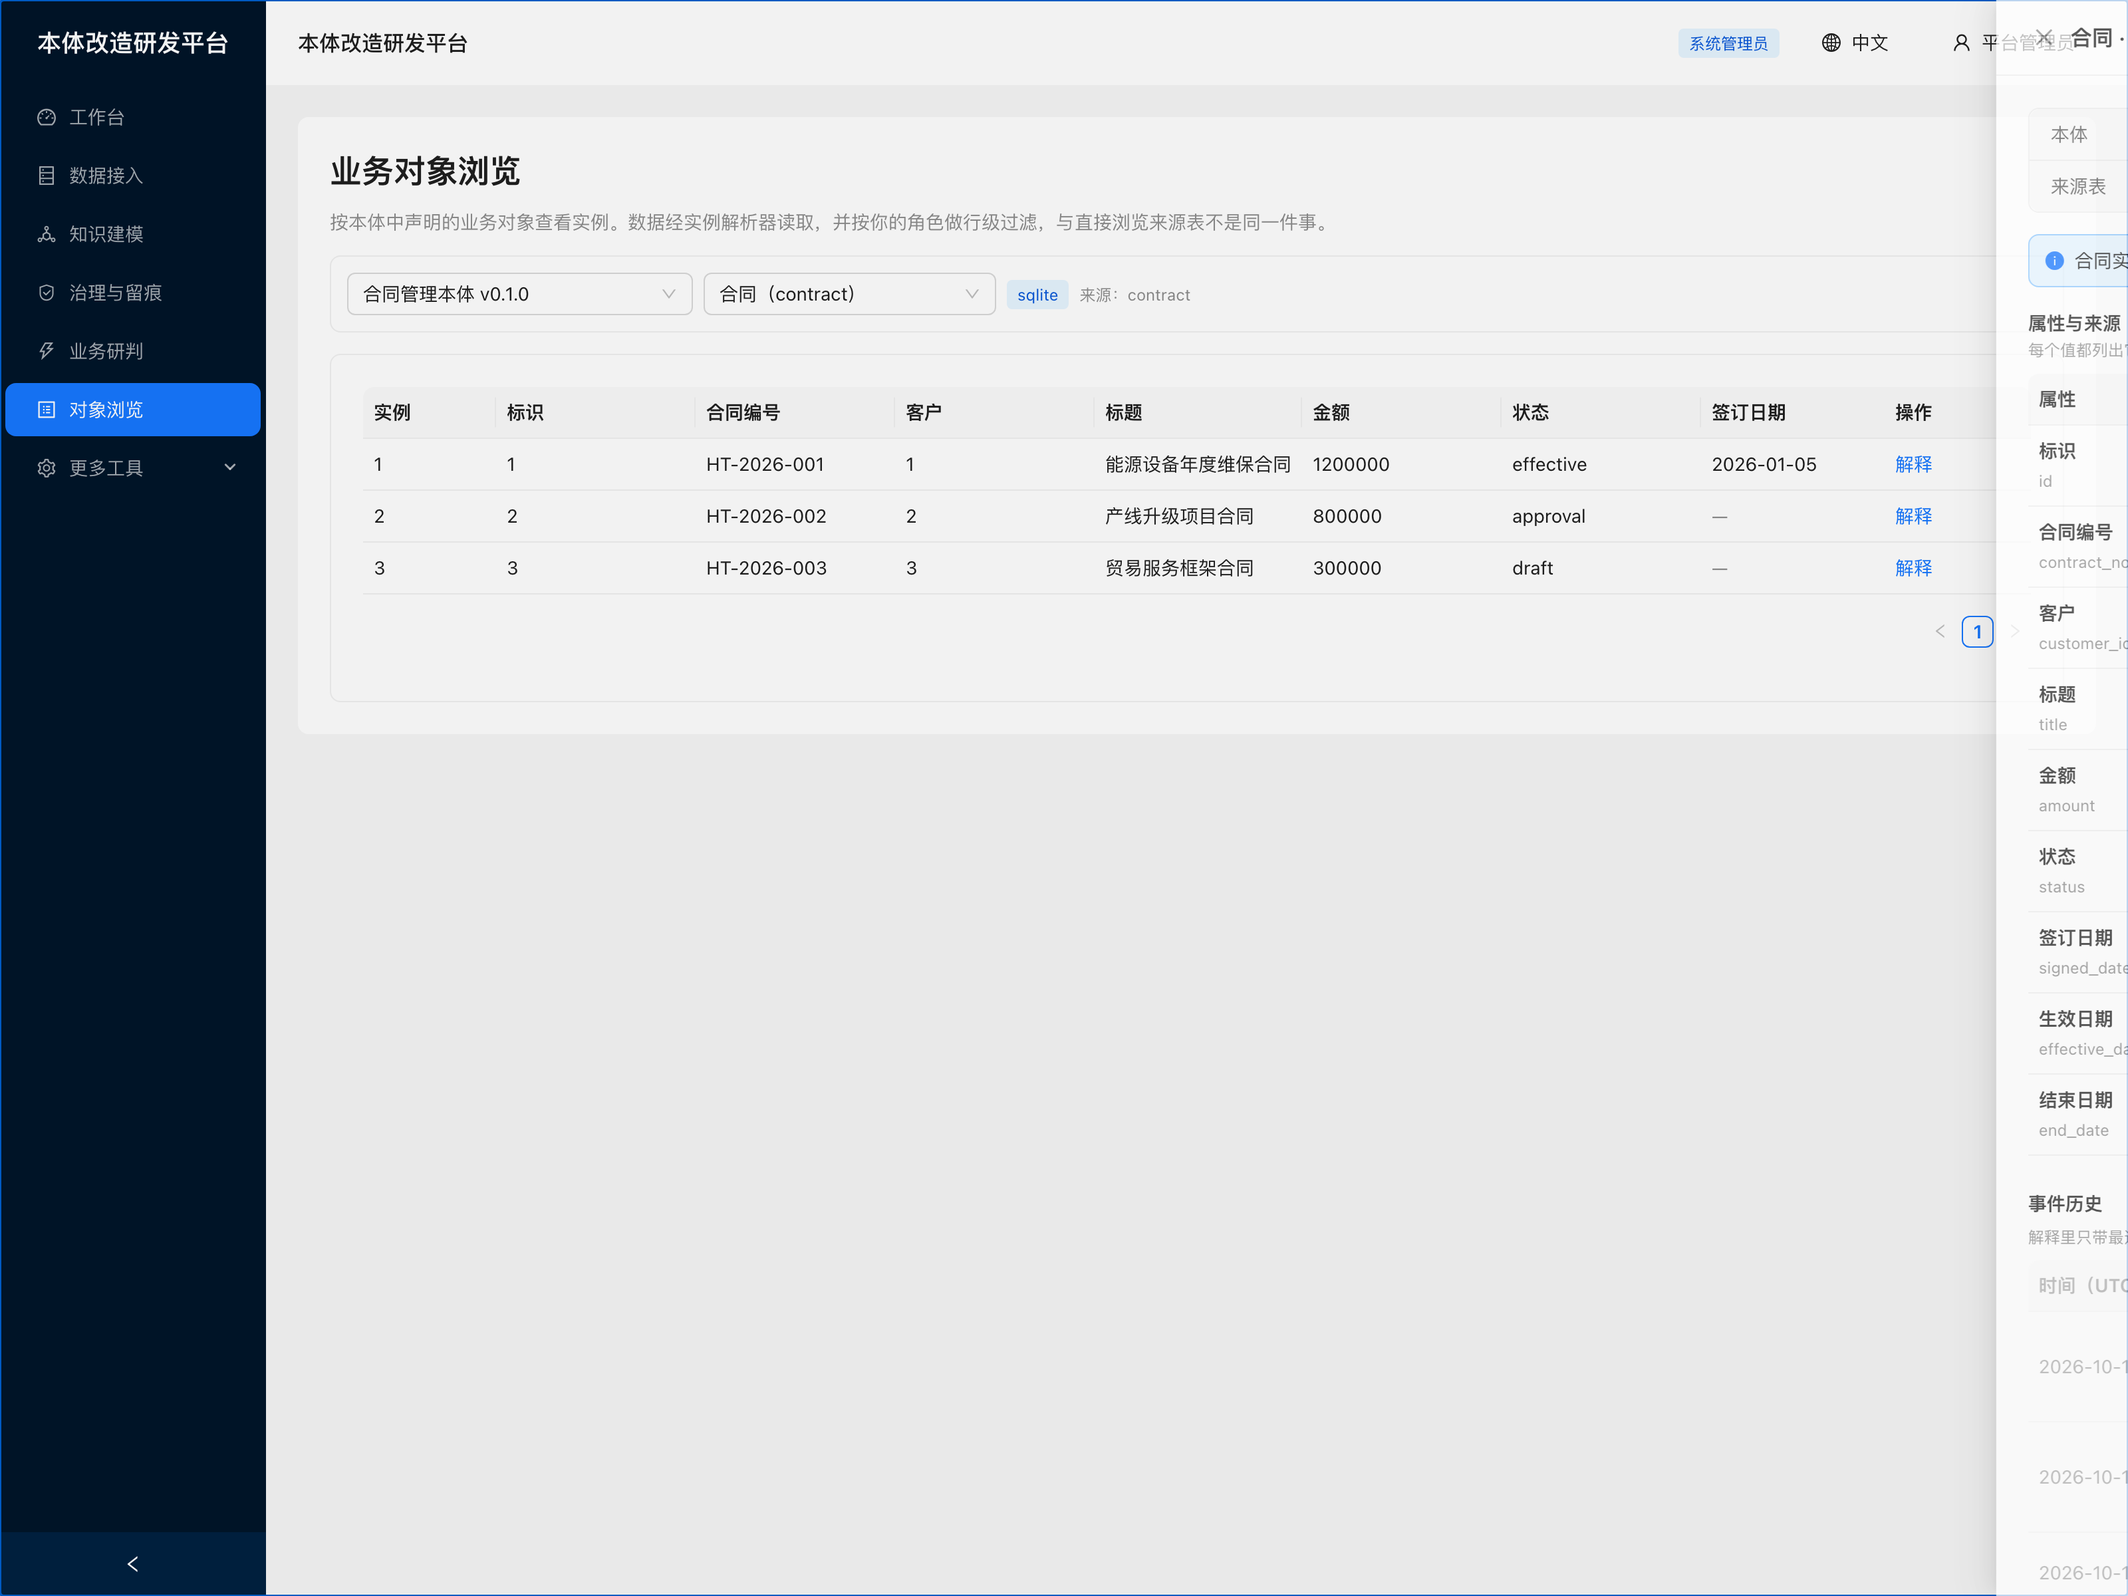
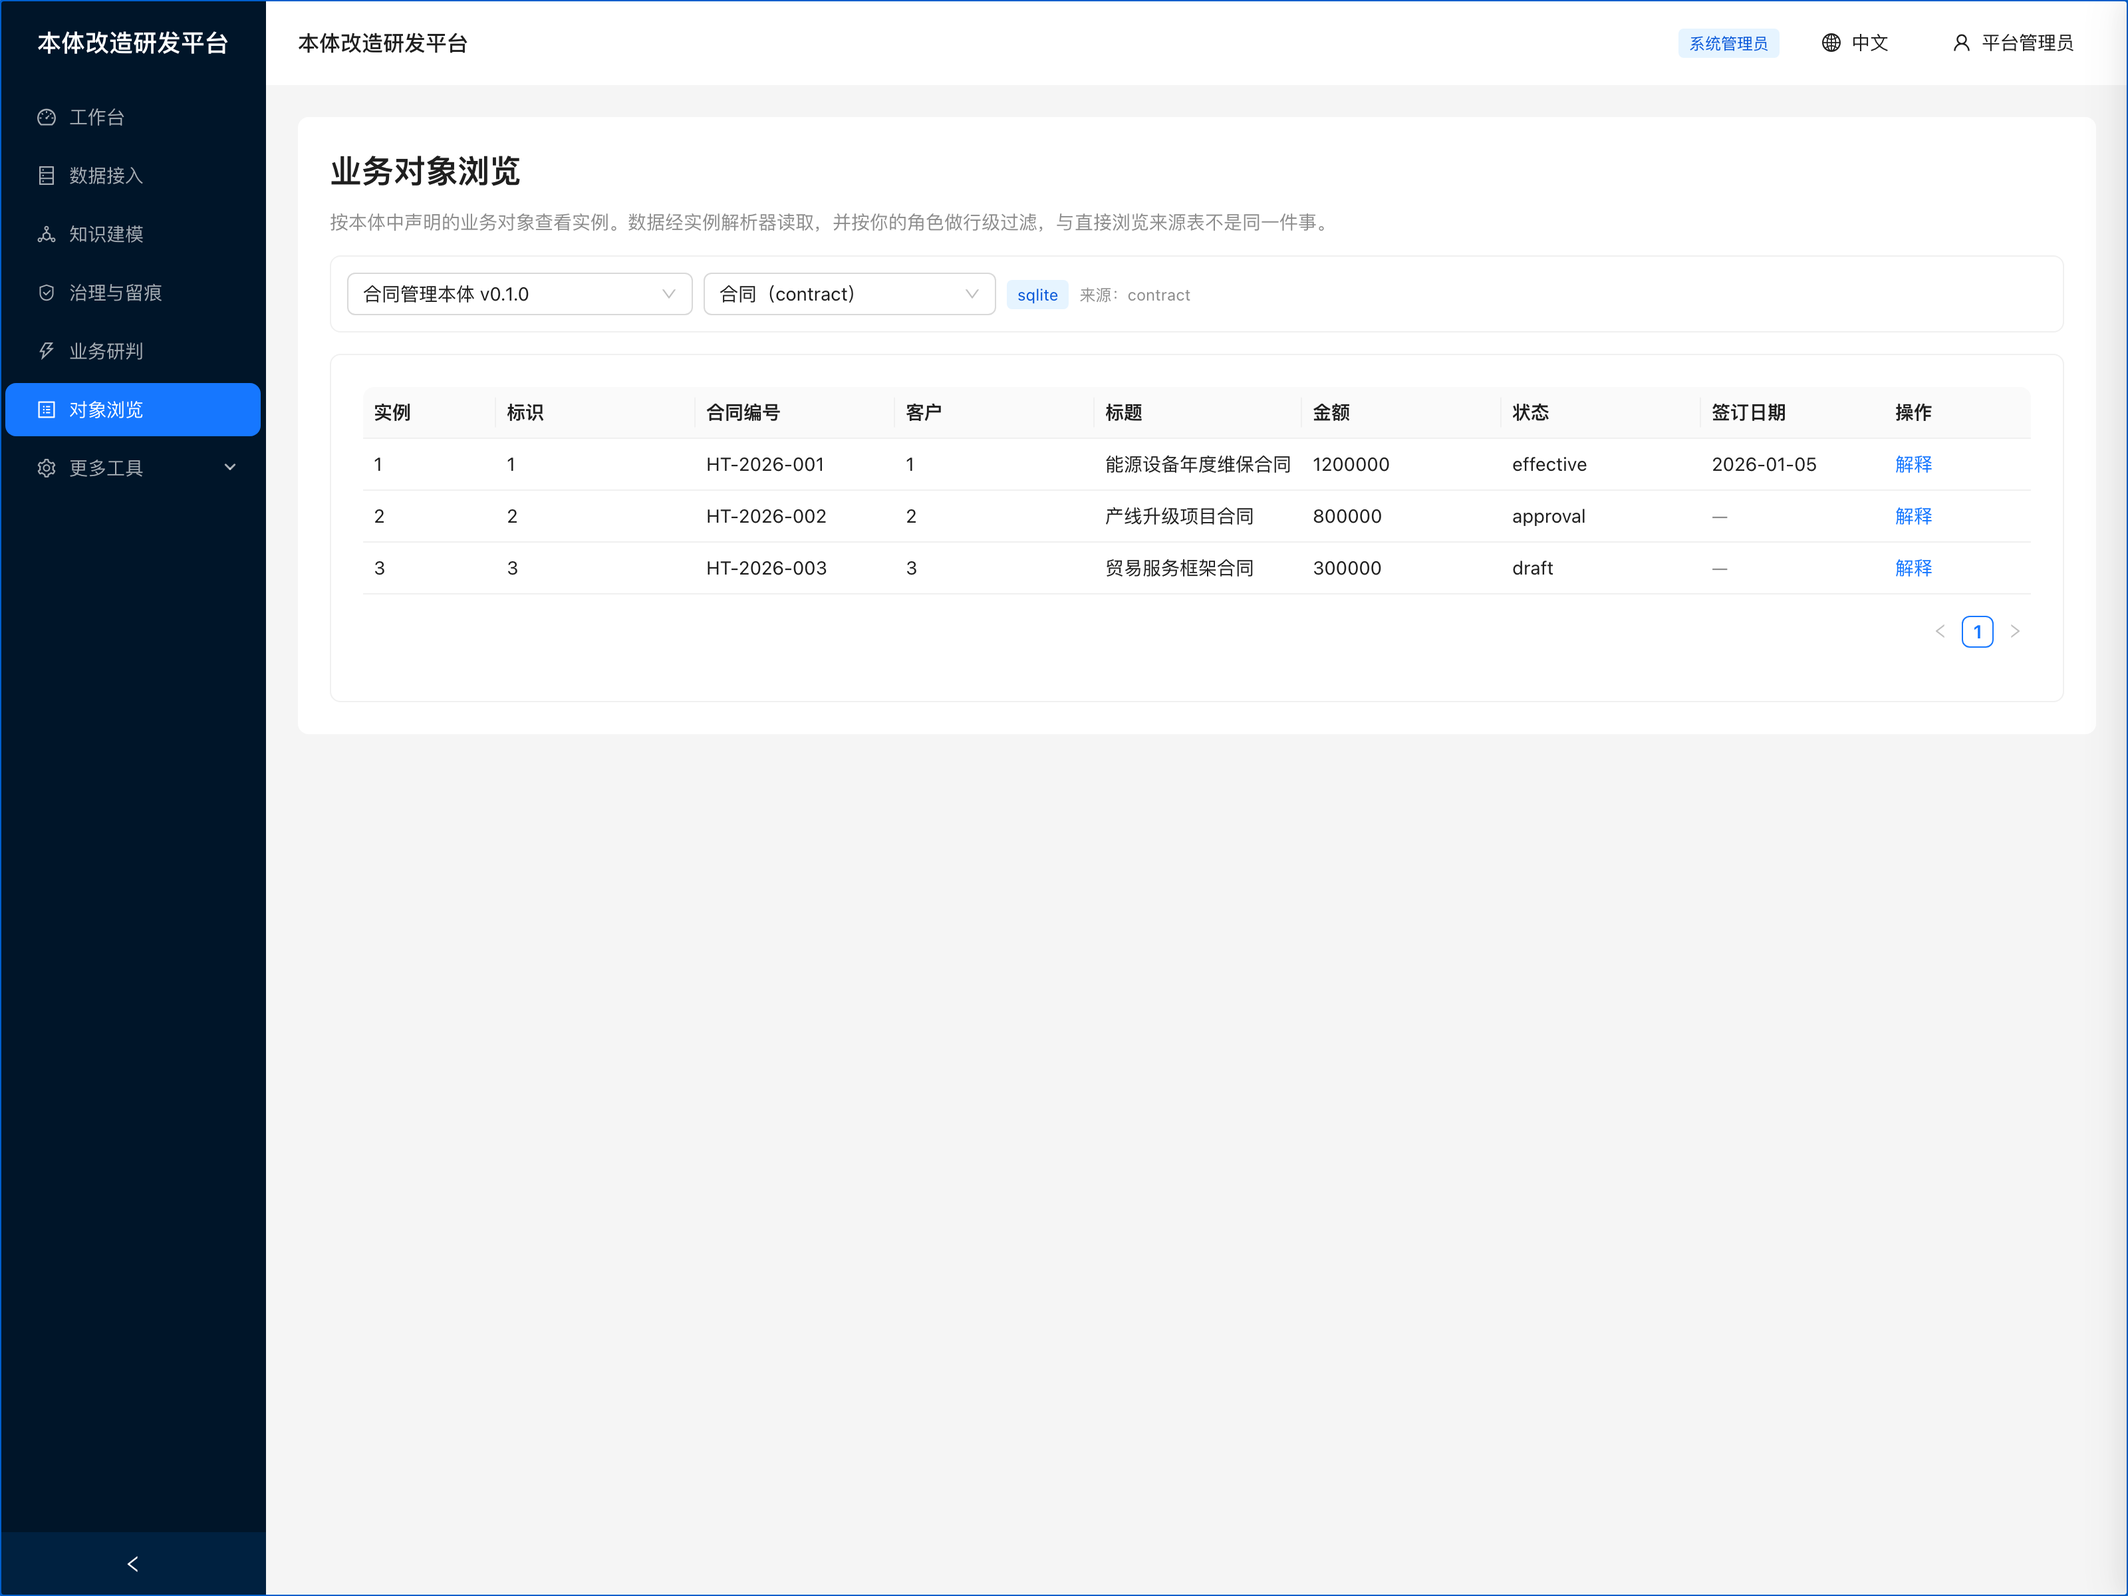
fix(ui): the explain panel labelled the object's name as the ontology's, and two count defects beside it
Reading the fifteen English captures a second time -- after the first pass's defects were fixed --
turned up four more, and one of them was in the product rather than the picture:

- **The instance drawer's "Ontology" row showed the object's name.** `SemanticRuntime` had no
  ontology name at all, so `ontology.name` was filled from `object_name` and the drawer printed
  「合同 v0.1.0」 above 「合同 (contract)」. Both rows had a value, which is why no test saw it: it
  took two rows of a screenshot side by side. The runtime carries `ontology_name` now.
- **The event history's Category tags were Chinese in the English drawer** (状态变更／业务交互):
  the column rendered the server's resolved `categoryLabel` while `EVENT_CATEGORY` in `labels.ts`
  already had the words. It renders the code now, with the server's label as the fallback for a
  category an extension adds. That also exposed the audit subtracting those labels as *data* -- the
  timeline endpoint resolves `categoryLabel` and `eventName` server-side, which are the platform's
  words -- so they are skipped by key, the same rule the rest of that list follows.
- **「1 drafts」 on the workbench's business-object card.** A `countText` helper picks `<key>.one`
  at a count of exactly one and falls back when there is none -- the convention the workbench's
  action titles already used, now shared.
- **The capture tool raced the drawer's slide-in**: a screenshot taken during the animation showed
[…]

diff --git a/frontend/src/pages/workbench/index.tsx b/frontend/src/pages/workbench/index.tsx
@@ -4,6 +4,7 @@ import { DatabaseOutlined, MessageOutlined, ReloadOutlined, RightOutlined, Rocke
 import { useNavigate } from 'react-router-dom';
 import { requestErrorMessage, workbenchApi } from '../../api';
 import { DECISION_STATUS, DECISION_TYPE } from '../../i18n/labels';
+import { countText } from '../../i18n/text';
 import { useLabel, useT } from '../../i18n/locale';
 import type { Workbench, WorkbenchActionItem } from '../../types';
 
@@ -198,7 +199,7 @@ const WorkbenchPage: React.FC = () => {
           <Card size="small">
             <Statistic title={t('workbench.businessObjects')} value={ontologies.objects} suffix={t('workbench.countSuffix')} />
             <Text type="secondary" style={{ fontSize: 12 }}>
-              {t('workbench.relations', { count: ontologies.relations })} · {t('workbench.publishedOntologies', { count: ontologies.published })} · {t('workbench.draftOntologies', { count: ontologies.draft })}
+              {countText('workbench.relations', ontologies.relations, t)} · {countText('workbench.publishedOntologies', ontologies.published, t)} · {countText('workbench.draftOntologies', ontologies.draft, t)}
             </Text>
           </Card>
         </Col>

diff --git a/frontend/src/pages/objects/InstanceDrawer.tsx b/frontend/src/pages/objects/InstanceDrawer.tsx
@@ -224,11 +224,22 @@ const InstanceDrawer: React.FC<Props> = ({ ontologyId, objectCode, instanceId, o
       ),
     },
     {
+      // The code, not the server's `categoryLabel`: the categories are a closed vocabulary
+      // (`events.EVENT_CATEGORIES`) with a label map on this side, and rendering the server's
+      // Chinese word left 「状态变更」 in the middle of the English drawer. The server's label is
+      // the fallback for a category an extension adds.
       title: t('objects.categoryColumn'),
-      dataIndex: 'categoryLabel',
-      key: 'categoryLabel',
+      dataIndex: 'category',
+      key: 'category',
       width: 110,
-      render: (label: string) => (label ? <Tag>{label}</Tag> : <Text type="secondary">—</Text>),
+      render: (category: string, row: InstanceEvent) =>
+        category ? (
+          <Tag>{label(EVENT_CATEGORY, category)}</Tag>
+        ) : row.categoryLabel ? (
+          <Tag>{row.categoryLabel}</Tag>
+        ) : (
+          <Text type="secondary">—</Text>
+        ),
     },
     { title: t('objects.actorColumn'), dataIndex: 'actor', key: 'actor', width: 140 },
     {

diff --git a/frontend/src/i18n/text.ts b/frontend/src/i18n/text.ts
@@ -176,3 +176,24 @@ export const explanationParts = (
     })
     .join('');
 };
+
+/**
+ * A message that counts things, in the form the count asks for.
+ *
+ * English inflects and Chinese does not, so `<key>.one` is tried first at a count of exactly
+ * one and the plain key is the fallback -- which is also what happens for the many counters that
+ * have no singular form, because a missing key renders `⟦key⟧` and that is checked for here.
+ * 「1 drafts」 and 「1 discussions」 were on the workbench's stat cards before this.
+ */
+export const countText = (
+  key: MessageKey,
+  count: number,
+  t: Translate,
+  params: Record<string, string | number> = {},
+): string => {
+  if (count === 1) {
+    const singular = t(`${key}.one` as MessageKey, { ...params, count });
+    if (!singular.startsWith('⟦')) return singular;
+  }
+  return t(key, { ...params, count });
+};

diff --git a/frontend/src/i18n/messages/workbench.ts b/frontend/src/i18n/messages/workbench.ts
@@ -45,8 +45,10 @@ export const workbench: Record<string, MessageEntry> = {
 
   'businessObjects': { zh: '业务对象', en: 'Business objects' },
   'relations': { zh: '{count} 条关系', en: '{count} relations' },
+  'relations.one': { zh: '{count} 条关系', en: '{count} relation' },
   'publishedOntologies': { zh: '{count} 个已发布本体', en: '{count} published' },
   'draftOntologies': { zh: '{count} 个草案', en: '{count} drafts' },
+  'draftOntologies.one': { zh: '{count} 个草案', en: '{count} draft' },
 
   'businessRules': { zh: '业务规则', en: 'Business rules' },
   'blockingRules': { zh: '阻断级 {count}', en: '{count} blocking' },

diff --git a/scripts/i18n_audit.py b/scripts/i18n_audit.py
@@ -98,11 +98,19 @@ DETAIL_DATA_ENDPOINTS = (
 # was showing 「优先审核待确认语义映射…」: the sentence had been subtracted as data because it
 # arrived from an endpoint on the list. Advice is exactly what has to be translated, so
 # subtracting it makes the check blind to its own subject.
-ADVICE_KEYS = frozenset({"nextActions", "limitation", "remediation", "evidence"})
+ADVICE_KEYS = frozenset({"nextActions", "limitation", "remediation", "evidence", "categoryLabel"})
 
 # The instance timeline, which needs an instance key as well. Its payloads are the instance's
 # data too -- an event's `reason` is a string a workflow wrote, and the timeline renders the
 # payload as JSON, so a payload value with no translation looks exactly like untranslated copy.
+# Kept as a named path but **not** harvested: everything it returns that is a *sentence* is the
+# platform's wording, and the payloads that are the instance's own content arrive in the drawer
+# from the explain endpoint, which is harvested.
+# The instance timeline, harvested for the same reason as everything else on the list: an event's
+# payload is content somebody's workflow wrote (`{"reason": "进入工作流"}`), and it renders as
+# JSON, so a payload value with no translation looks exactly like untranslated copy. The labels
+# the endpoint *resolves* -- `categoryLabel` -- are the platform's words and are skipped by key
+# below, which is the same rule the rest of this list follows.
 TIMELINE = "/ontologies/{ontology}/objects/{object}/instances/{instance}/events?limit=200"
 
 # Chinese the *server* composes and the console prints as-is. Empty, and that is the point:

diff --git a/scripts/capture_screenshots.py b/scripts/capture_screenshots.py
@@ -127,6 +127,11 @@ def capture(browser: str, url: str, target: Path, *, width: int, height: int, sc
             # Without this the scrollbar is in every image and the layout is 15px narrower than
             # the one a reader sees.
             "--hide-scrollbars",
+            # Animations off. The instance drawer slides in, and a capture that races it gets a
+            # drawer half off the right edge -- or an empty page, because the drawer had mounted
+            # but not yet moved. It is a screenshot tool: it wants the settled frame, and
+            # `prefers-reduced-motion` is what the web already uses to ask for one.
+            "--force-prefers-reduced-motion",
             f"--window-size={width},{height}",
             f"--force-device-scale-factor={scale}",
             # The pages fetch on mount; the budget is the same one the render sweep relies on.

diff --git a/backend/ontology_platform/semantic_kernel.py b/backend/ontology_platform/semantic_kernel.py
@@ -85,6 +85,10 @@ __all__ = [
 class SemanticRuntime:
     ontology_id: int
     ontology_version: str
+    # The *ontology's* name, which is not the object's. The explanation used to label the
+    # ontology row with `object_name`, so the instance drawer showed 「合同 v0.1.0」 under
+    # "Ontology" and the same string under "Business object" directly below it.
+    ontology_name: str
     object_code: str
     object_name: str
     source_table: str
@@ -661,6 +665,7 @@ def build_runtime(
     return SemanticRuntime(
         ontology_id=ontology_id,
         ontology_version=ontology["version"],
+        ontology_name=ontology["name"],
         object_code=object_code,
         object_name=business_object["name"],
         source_table=source_table["table_name"],

diff --git a/tests/test_frontend_type_agreement.py b/tests/test_frontend_type_agreement.py
@@ -582,6 +582,10 @@ BARE_ENUM_ALLOWED = {
     # A machine-facing code shown on purpose, in a column labelled as a code.
     "h.actionCode",
     "a.actionCode",
+    # The server's own word, rendered only for a category this build's map does not have --
+    # the branch beside it goes through `label(EVENT_CATEGORY, ...)`. An extension that adds a
+    # category should still see something, and the alternative is a blank cell.
+    "row.categoryLabel",
 }
 
 ENUM_ISH = re.compile(

diff --git a/tests/test_data_source_knowledge_base.py b/tests/test_data_source_knowledge_base.py
@@ -162,6 +162,7 @@ def test_assessment_serializes_date_values_from_external_sources(tmp_path: Path,
         return SemanticRuntime(
             ontology_id=ontology_id,
             ontology_version=ontology["version"],
+            ontology_name=ontology["name"],
             object_code=object_code,
             object_name="合同",
             source_table="contract",

diff --git a/backend/ontology_platform/ontology.py b/backend/ontology_platform/ontology.py
@@ -221,7 +221,7 @@ def explain_instance(
         return {
             "ontology": {
                 "id": runtime.ontology_id,
-                "name": runtime.object_name,
+                "name": runtime.ontology_name,
                 "version": runtime.ontology_version,
             },
             "object": {"code": runtime.object_code, "name": runtime.object_name},

diff --git a/CHANGELOG.md b/CHANGELOG.md
@@ -497,6 +497,22 @@
   补上的回归测试断言的是**性质**而非常量：**每一个 SPA 路由都必须能在无令牌时拿到外壳**——
   外壳必须先加载，令牌才可能出现。把旧路径加回该列表，测试会精确报出
   `/admin/backup -> 401 application/json`。
+- **第二遍读截图又抓到两处，其中一处是真缺陷**（`semantic_kernel.py`、`ontology.py`、
+  `InstanceDrawer.tsx`、`i18n/text.ts`、`workbench.ts`、`capture_screenshots.py`）。
+  1. **实例解释把「本体」那一行填成了对象的名字**：`SemanticRuntime` 里根本没有本体名，
+     于是抽屉里「本体」与「业务对象」两行显示同一个字符串。截图里
+     `合同管理本体 v0.1.0` 与 `合同 v0.1.0` 并排看才发现——**库层的测试看不见它**，
+     因为那两行都「有值」。运行期现在带着 `ontology_name`。
+  2. **事件历史的「类别」标签在英文界面里是中文**（状态变更／业务交互）：那里渲染的是服务端
+     解析好的 `categoryLabel`，而这张词表在 `labels.ts` 里本来就有。现在按 code 渲染，
+     服务端的词只作为扩展新增类目时的兜底。顺带发现**审计把同一个标签当数据减掉了**——
+     时间线端点会解析 `categoryLabel` 与事件名，那是平台的话；按**键**排除之后这类才会被抓住。
+  3. 工作台统计卡片的「1 drafts」：补上单数形式，并加了 `countText` 帮手——按 `<key>.one`
+     取，取不到就回落，与工作台事项标题用的是同一条约定。
+  4. 截图工具自己也有一个竞态：实例抽屉是**滑入**的，抓早了就得到半张抽屉甚至整页空白。
+     现在带 `--force-prefers-reduced-motion` 抓——**截图工具要的是稳定下来的那一帧**，
+     而 `prefers-reduced-motion` 正是网页世界用来表达这件事的。连抓三次得到同一个字节数。
+
 - **英文文档现在配英文截图**（`docs/images/en/`、`docs/screenshots.md`、`README.md`、
   `tests/test_documentation_links.py`）。
   界面是双语的，文档此前却只有一套中文截图——读英文文档的人，看到的是一张自己读不懂的界面。

diff --git a/docs/screenshots.md b/docs/screenshots.md
@@ -132,9 +132,9 @@ promoting it goes through governance (ADR-0002).
 
 The one screen that shows a business object *as an object*: instances read through the
 instance resolver, with the object's declared attributes as columns, and the caller's
-row-level filter applied. The drawer on the right is a single instance: its values with the
-source column each was read from, its events and its value history. Browsing the raw source table
-is a different thing -- it skips the
+row-level filter applied. The drawer on the right is a single instance: its values, each naming
+the source column it was read from, and the events recorded against it -- with its value history
+below those. Browsing the raw source table is a different thing -- it skips the
 resolver, skips the filter, and shows columns rather than the modelled contract.
 
 An empty table says which of the two reasons applies. "Nothing is visible to your role" and
